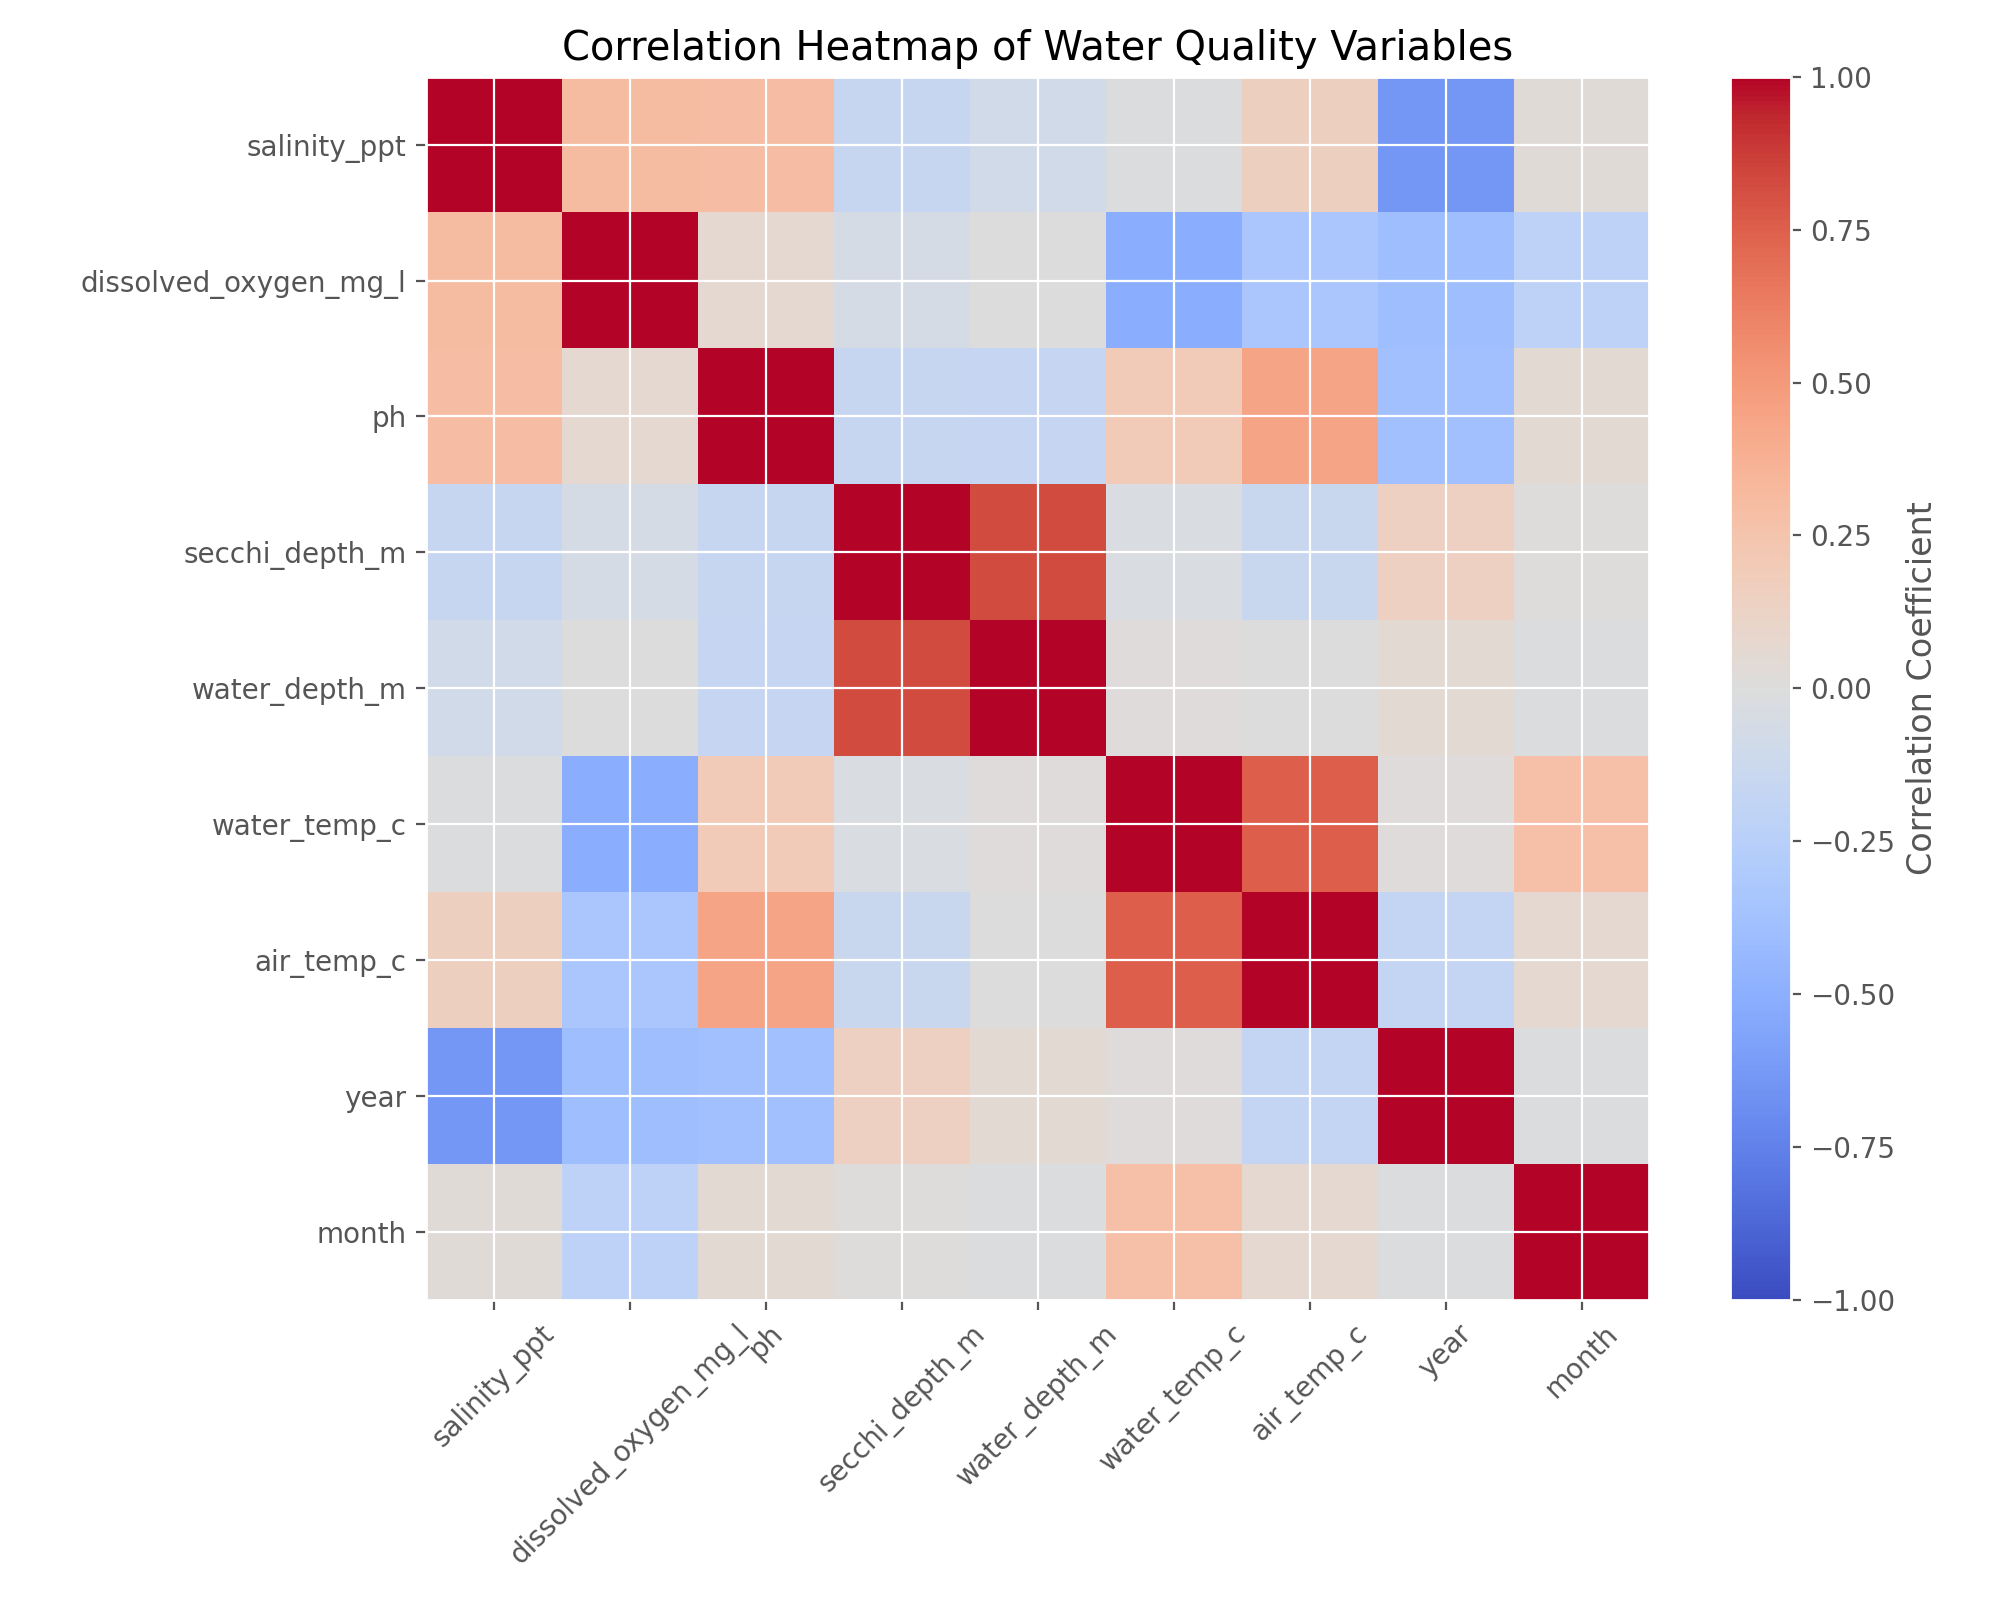
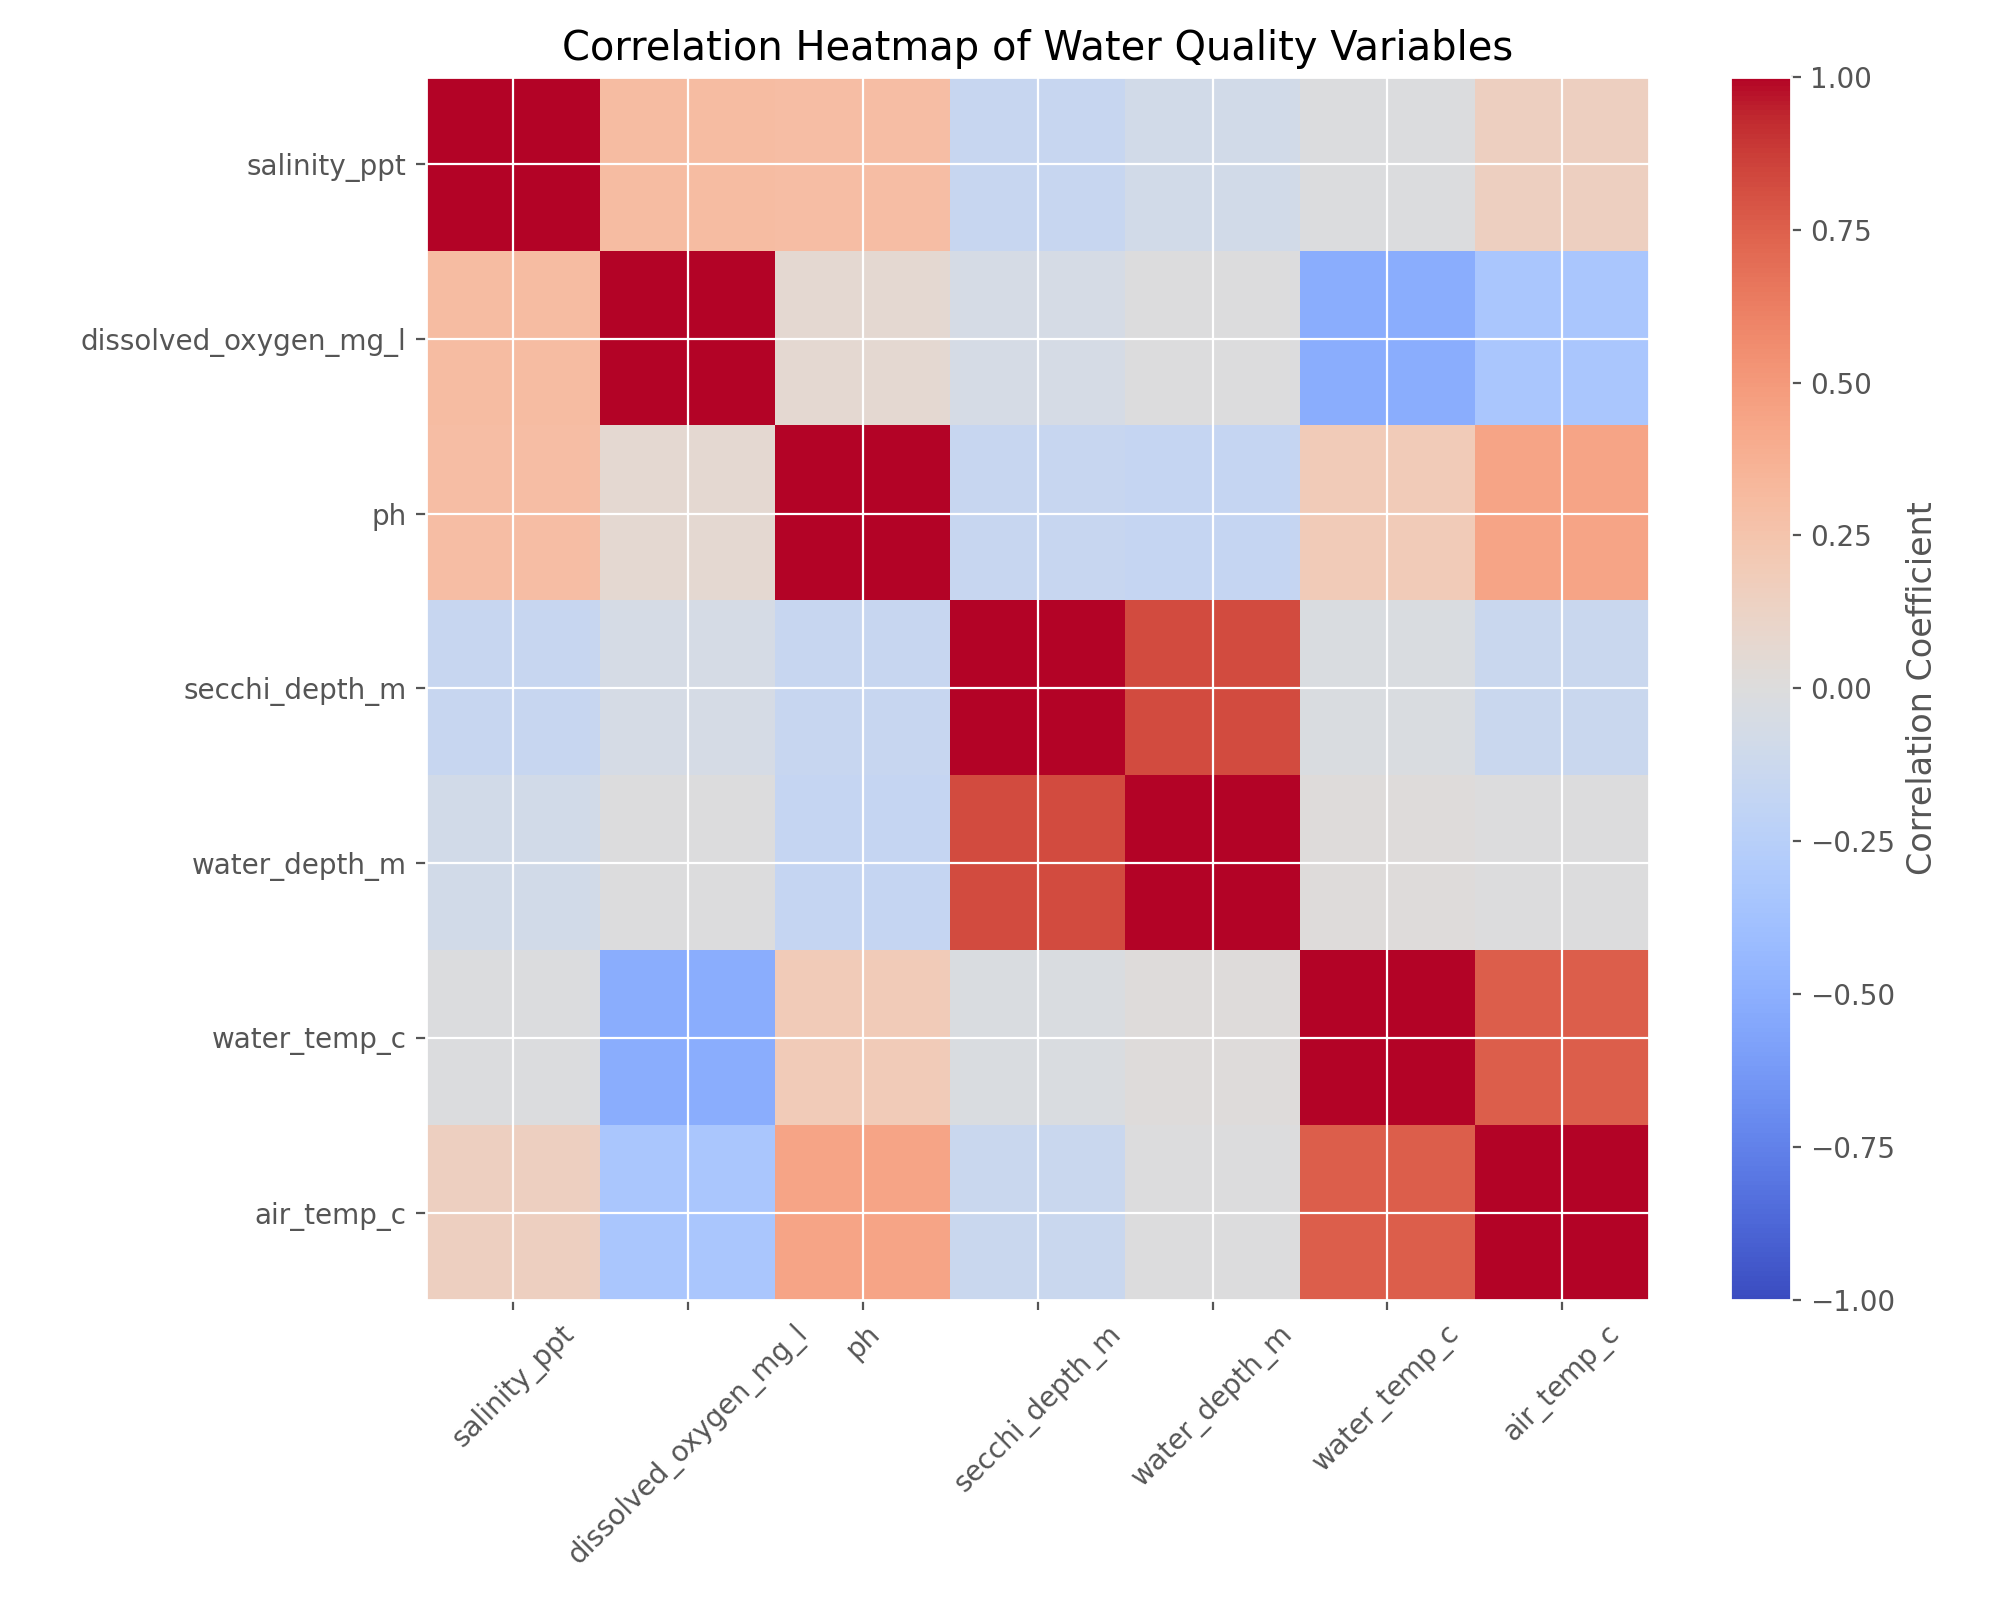
Add monthly grouped averages for key water quality variables

diff --git a/src/analysis_water_quality.py b/src/analysis_water_quality.py
@@ -15,6 +15,7 @@ def load_clean_data(path: Path) -> pd.DataFrame:
 def prepare_numeric_data(df: pd.DataFrame) -> pd.DataFrame:
     """Select and return numeric columns for analysis."""
     numeric_df = df.select_dtypes(include="number").copy()
+    numeric_df = numeric_df.drop(columns=["year", "month"], errors = "ignore")
     return numeric_df
 
 def calculate_correlation_matrix(df:pd.DataFrame) -> pd.DataFrame:
@@ -56,7 +57,19 @@ def filter_correlations(strong_corrs: pd.DataFrame, threshold: float) -> pd.Data
     filtered = strong_corrs[strong_corrs["correlation"].abs() >= threshold]
     return filtered
 
+def calculate_monthly_averages(df: pd.DataFrame) -> pd.DataFrame:
+    """Calculate monthly mean values for selected water quality variables."""
+    subset = df[["month", "water_temp_c", "dissolved_oxygen_mg_l"]].copy()
+    subset = subset.dropna(subset=["month"])
+    monthly_summary = subset.groupby("month")[["water_temp_c", "dissolved_oxygen_mg_l"]].mean()
+    monthly_summary = monthly_summary.reset_index()
+    return monthly_summary
+
 def main() -> None:
+
+    FIG_DIR.mkdir(parents=True, exist_ok=True)
+    TABLE_DIR.mkdir(parents=True, exist_ok=True)
+
     df = load_clean_data(CLEAN_PATH)
     numeric_df = prepare_numeric_data(df)
     corr_matrix = calculate_correlation_matrix(numeric_df)
@@ -66,10 +79,12 @@ def main() -> None:
     strong_corrs.to_csv(TABLE_DIR / "strong_correlation.csv", index=False)
     filtered_corrs = filter_correlations(strong_corrs, threshold=0.3)
 
-    print("\nFiltered correlations (|r| ≥ 0.3):")
-    print(filtered_corrs.round(2))
-
     filtered_corrs.to_csv(TABLE_DIR / "filtered_correlations.csv", index=False)
+    monthly_summary = calculate_monthly_averages(df)
+    print("\nMonthly average:")
+    print(monthly_summary.round(2))
+
+    monthly_summary.to_csv(TABLE_DIR / "monthly_average.csv", index=False)
 
 
 if __name__ == "__main__":
